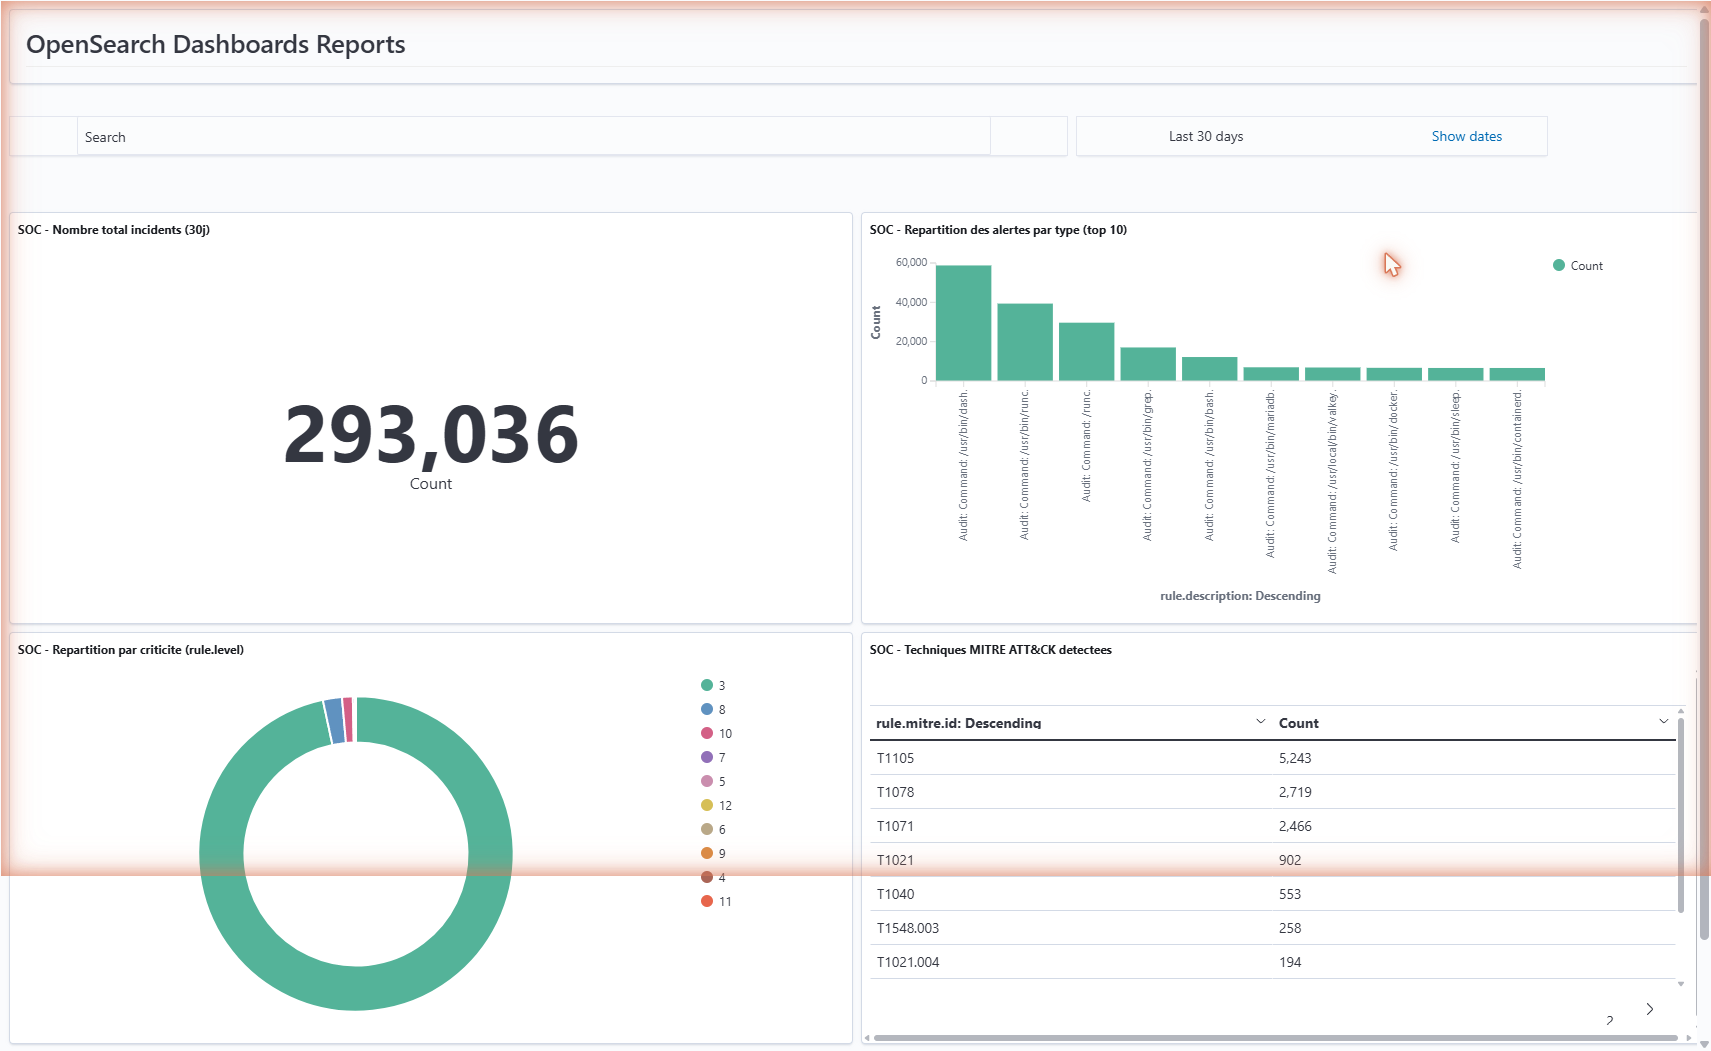
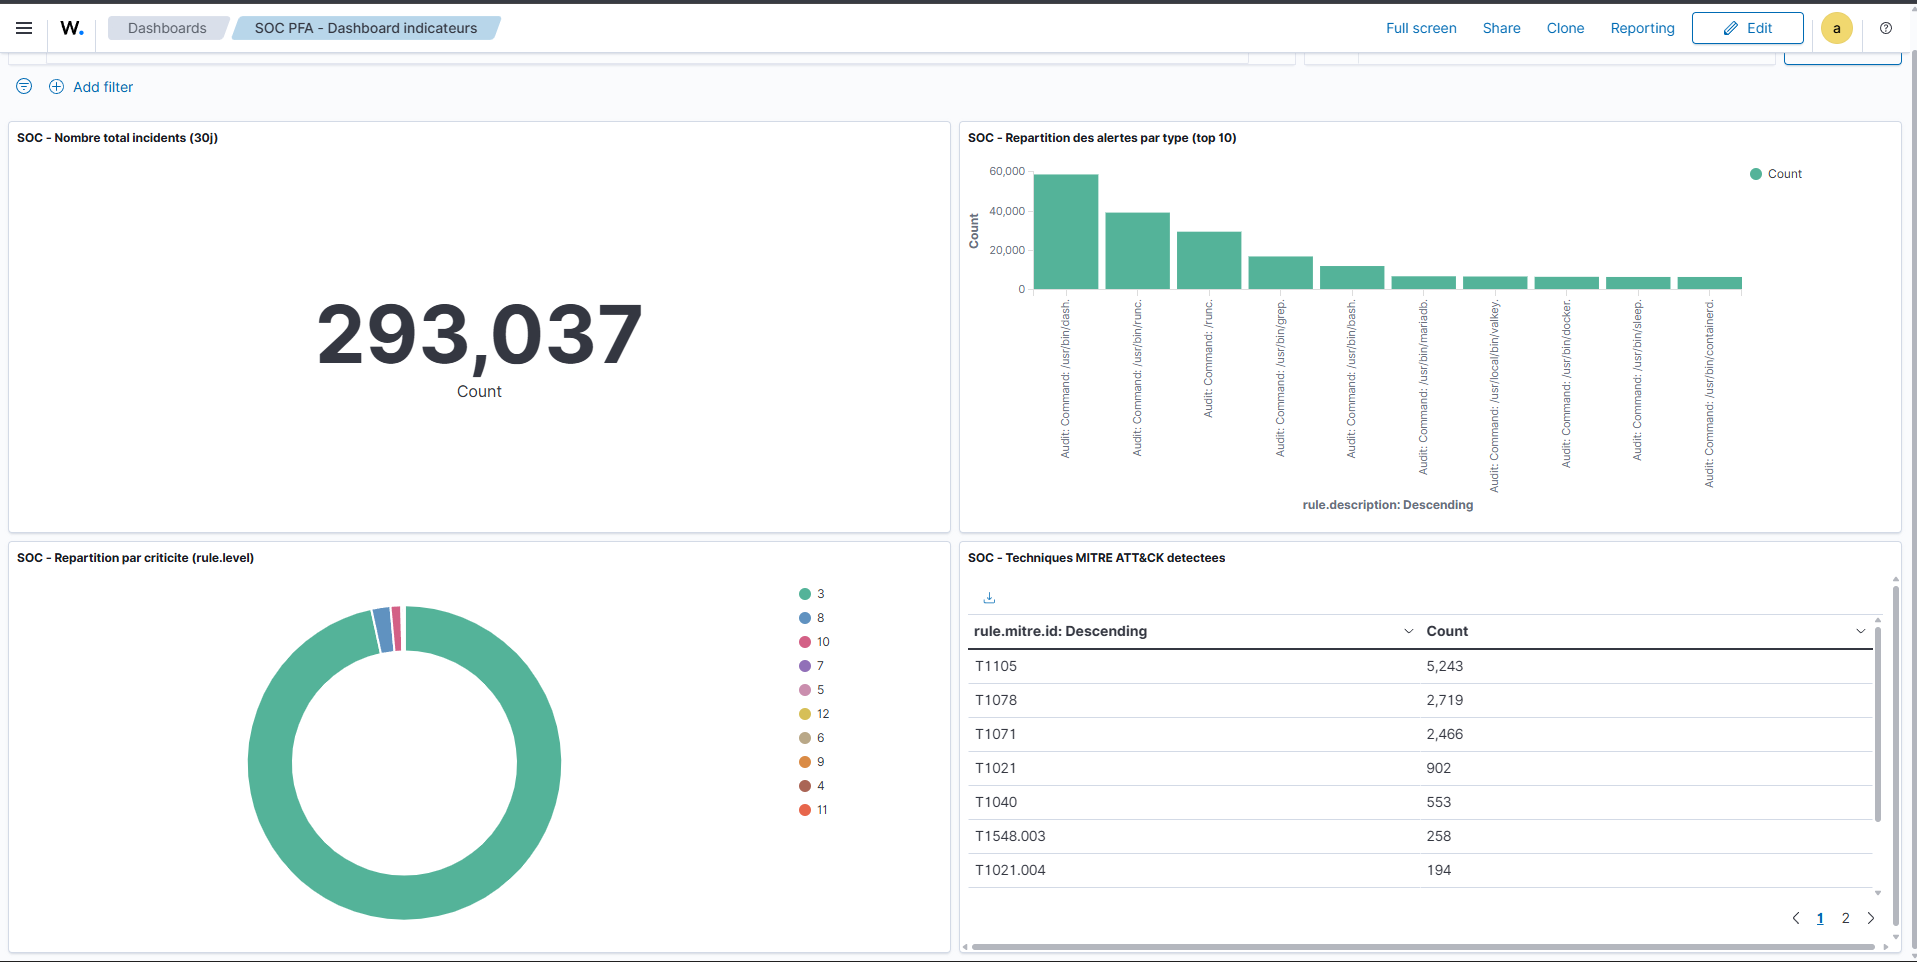
dashboard: replace evidence screenshot with user's own clean capture
The previous screenshot (obtained via Wazuh's Reporting export) was
functionally fine but showed the Chrome CDP debugging banner from the
automation session. The user closed all automated tabs, reopened the
dashboard in their own browser, and captured it themselves - swapped
in as the evidence file. Same real data (293,037 incidents, identical
MITRE technique counts), just without the debugging chrome.

diff --git a/docs/evidence/final/PFA-FINAL-20260718-214637/dashboard/DASHBOARD.md b/docs/evidence/final/PFA-FINAL-20260718-214637/dashboard/DASHBOARD.md
@@ -66,7 +66,7 @@ réel produit et vérifié :
 
 | Fichier | Contenu |
 |---|---|
-| `screenshots/soc_dashboard_indicateurs.png` | Export PNG natif du tableau de bord complet (4 panneaux), généré via le menu "Reporting" de Wazuh/OpenSearch Dashboards — total `293 036` incidents (30j), répartition par type, camembert de criticité (10 niveaux), tableau des 18 techniques MITRE. Valeurs identiques à celles recoupées indépendamment avec les requêtes OpenSearch brutes (`T1105: 5243, T1078: 2719, T1071: 2466, T1021: 902, T1040: 553` — légères variations de comptage par rapport à la première vérification, cohérentes avec le flux continu d'alertes réelles entre les deux mesures). |
+| `screenshots/soc_dashboard_indicateurs.png` | Capture propre du tableau de bord complet (4 panneaux), prise directement par l'utilisateur depuis son propre navigateur (remplace la première capture générée via "Reporting", qui affichait la bannière de débogage Chrome liée à l'automatisation) — total `293 037` incidents (30j), répartition par type, camembert de criticité (10 niveaux), tableau des 18 techniques MITRE. Valeurs identiques à celles recoupées indépendamment avec les requêtes OpenSearch brutes (`T1105: 5243, T1078: 2719, T1071: 2466, T1021: 902, T1040: 553` — légères variations de comptage par rapport à la première vérification, cohérentes avec le flux continu d'alertes réelles entre les deux mesures). |
 
 Historique (pour traçabilité, n'affecte plus la preuve actuelle) : une première tentative
 d'export via un outil de capture d'écran générique (`save_to_disk`) se bloquait
